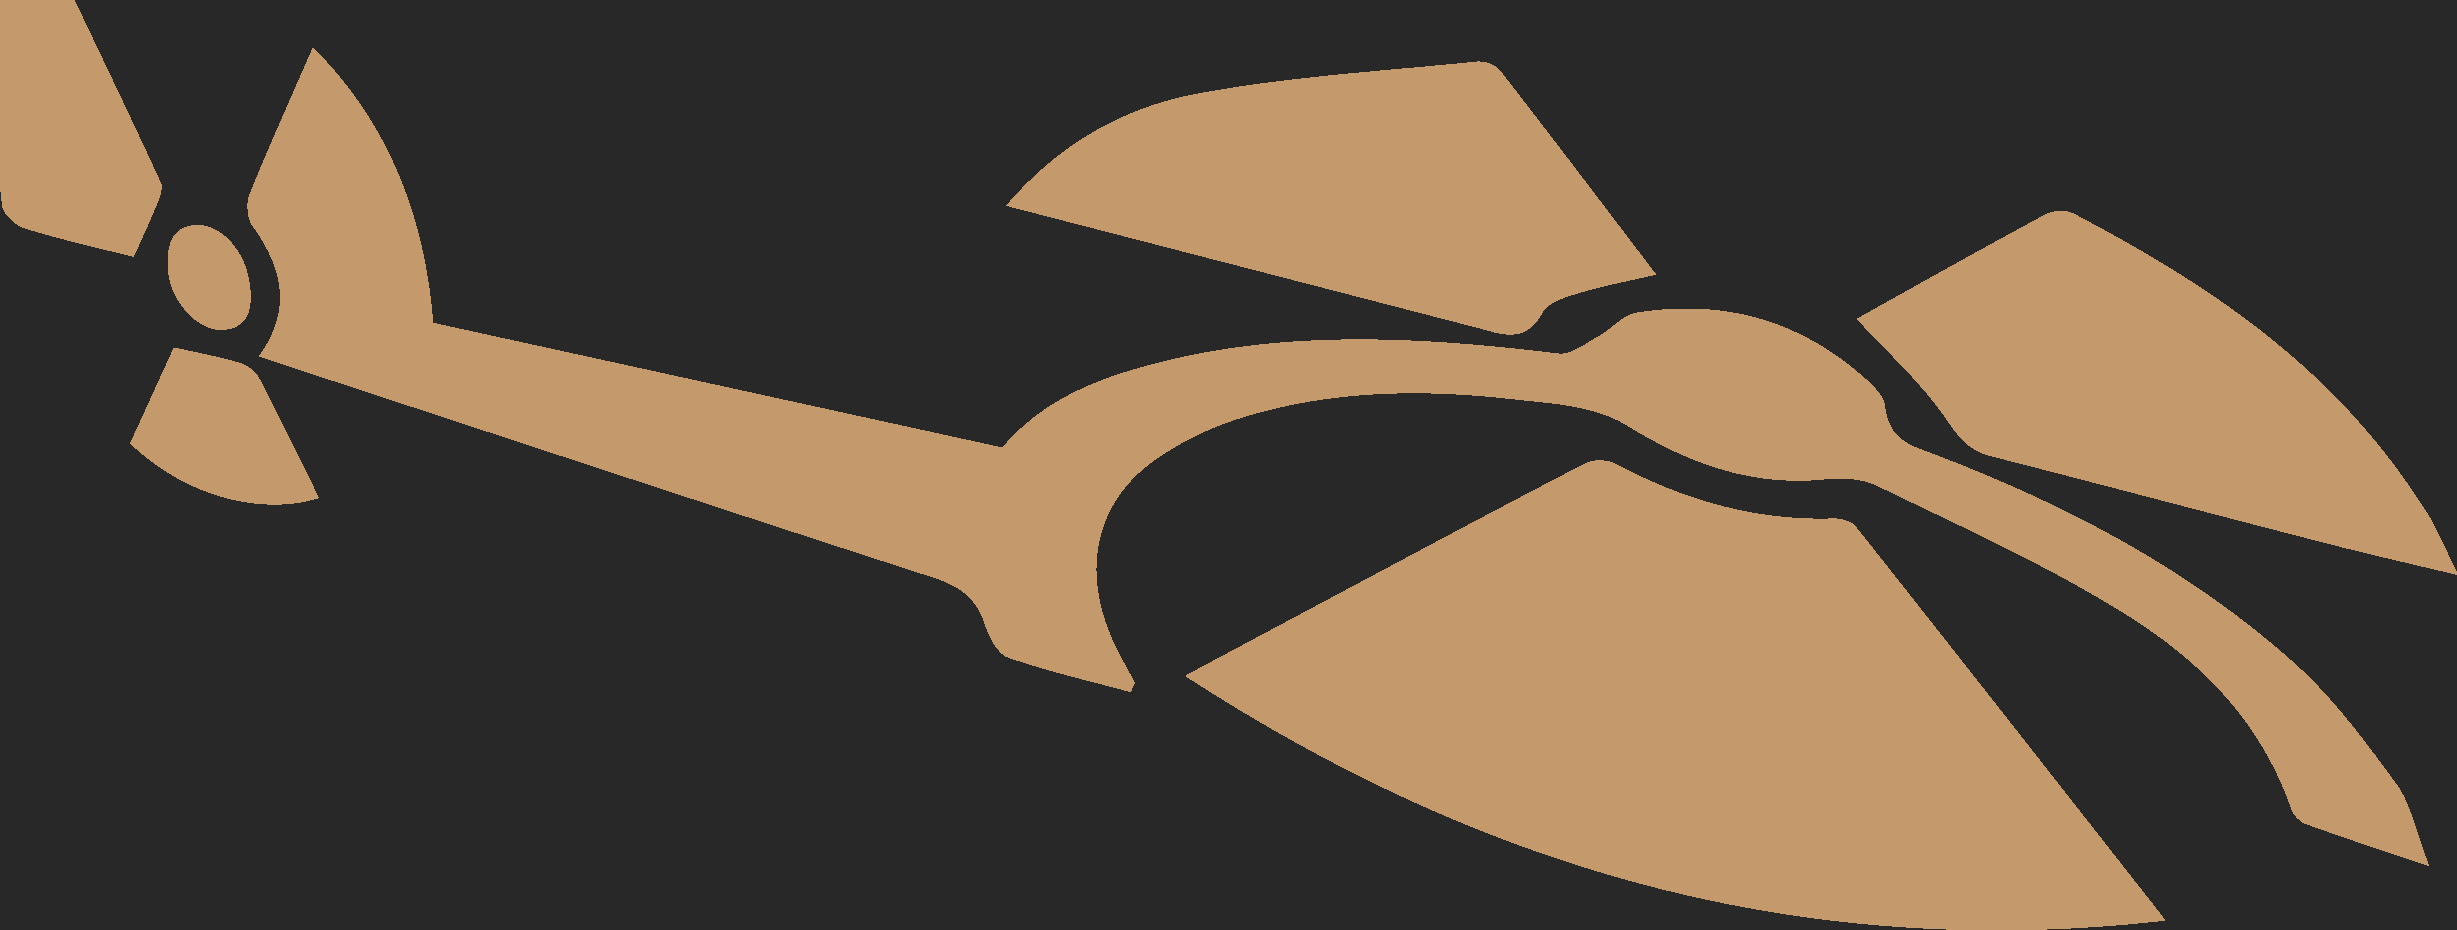
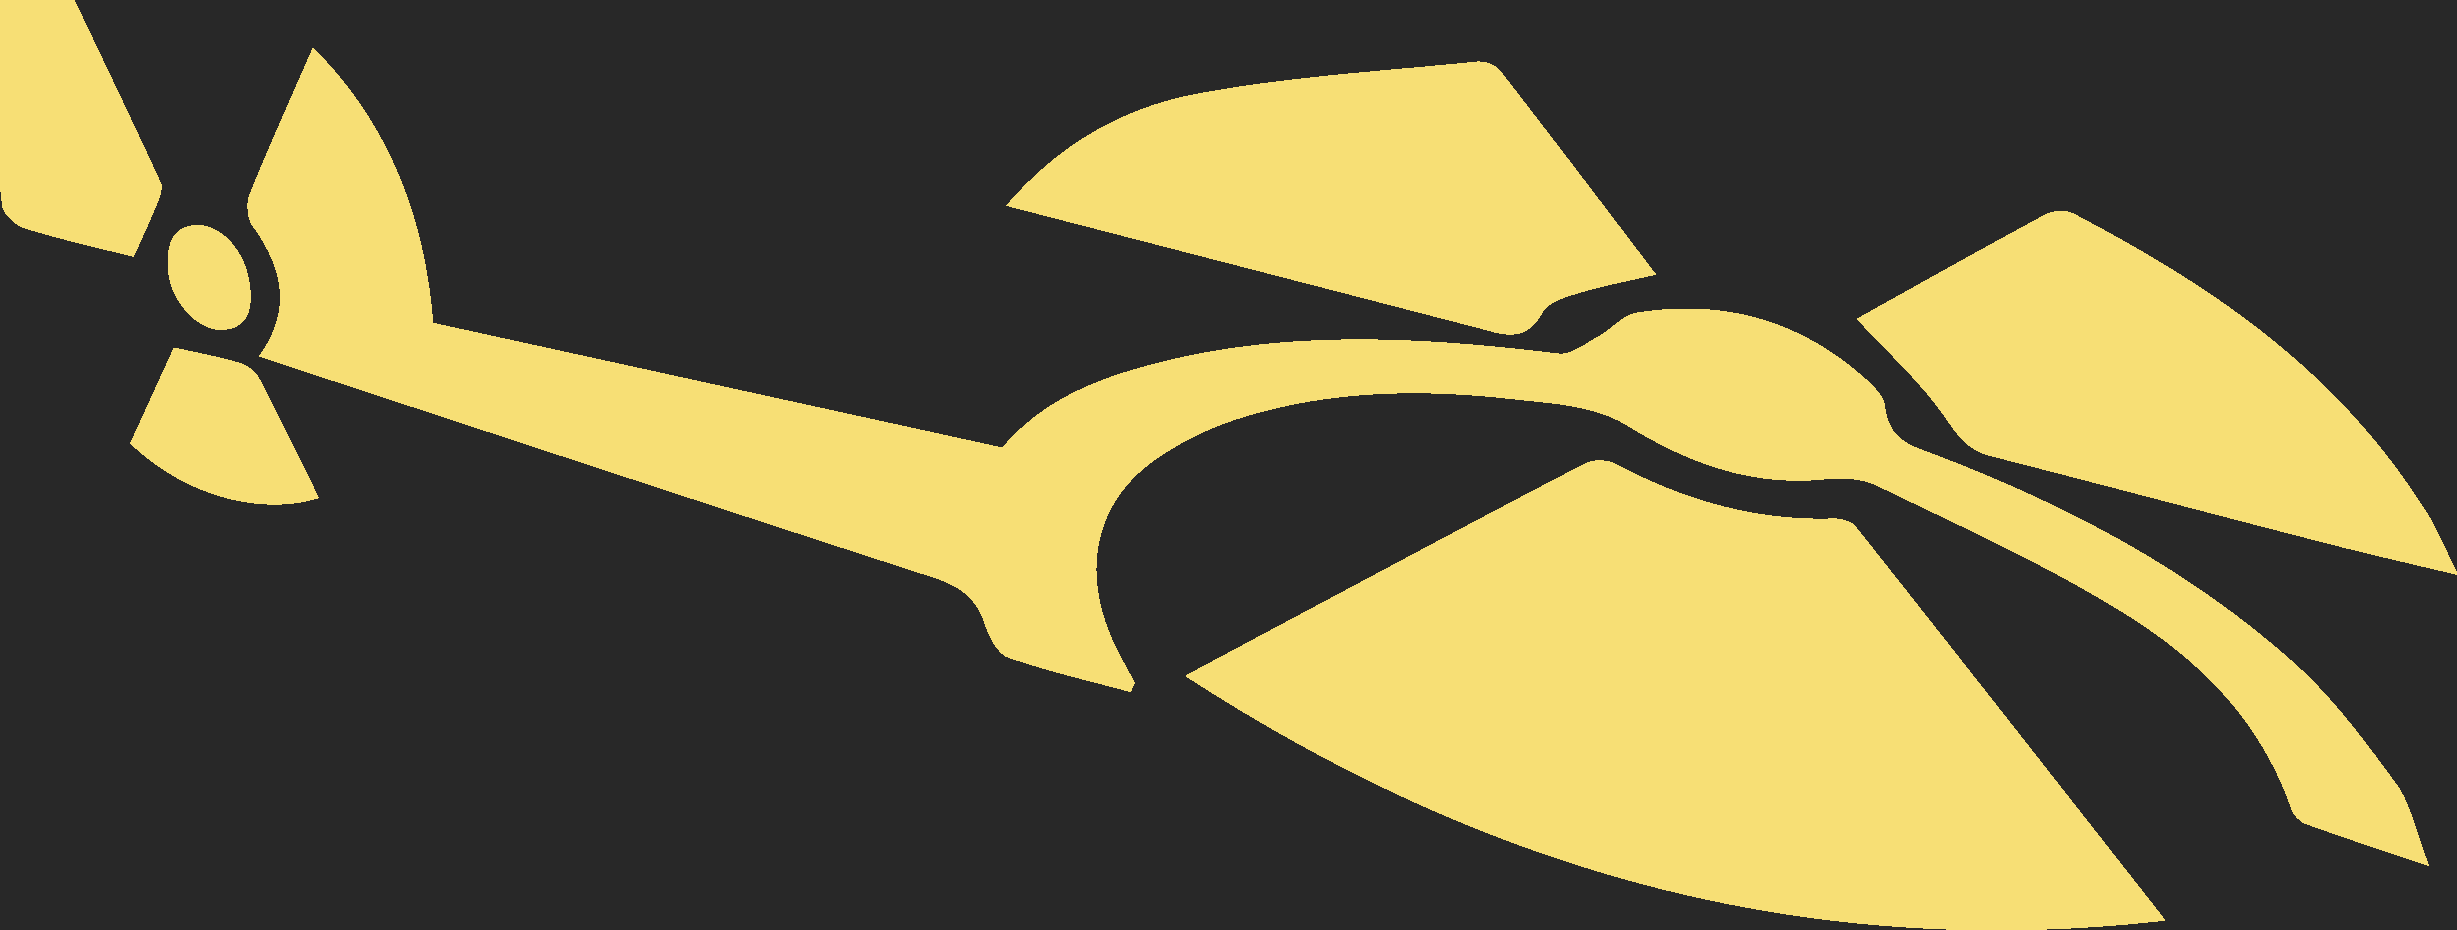
changes
changed font colors and icon size in footer.

diff --git a/assets/css/style.css b/assets/css/style.css
@@ -4,7 +4,7 @@ body,html{
 			font-size: 20px;
 			font-family: 'Open Sans', serif;
 			line-height: 1.8em;
-			color: #FFF;
+			color: #6cacf7;
 		}
 		.img{
 			background-image: url('../images/Drones.gif');
@@ -34,7 +34,7 @@ body,html{
 		}
 
 		.text1 .border{
-		  	color:#c1986a;
+		  	color:#f7df75;
 		  	padding:20px;
 		  	font-weight: bold;
 		  	background-color: black;
@@ -43,7 +43,7 @@ body,html{
 		}
 
 		h2{
-			color: #c1986a;
+			color: #f7df75;
 			font-family: 'Titillium Web';	
 		}
 
@@ -73,14 +73,14 @@ body,html{
 		.sl{
 			text-decoration: none;
 			display: block;
-			color: white;
+			color: #6cacf7;
 		}
 
-		.fa {
-		  	padding: 20px;
+		/*.fa {
+		  	padding: 10px;
 		  	font-size: 30px;
-		  	width: 200px;
-		  	height: 60px;
+		  	width: 100px;
+		  	height: 50px;
 		  	margin: 5px 20px;
 		  	border-radius: 50%;
 		  	display: block;
@@ -111,17 +111,20 @@ body,html{
 		.fa-linkedin {
 		  	background: #007bb5;
 		  	color: white;
-		}
+		}*/
 
 		.a:hover{
-			color: white ;
+			color: #6cacf7 ;
 			font-size: 25px;
 		}
 		/*style="color: #c1986a;"*/
 		.a{
-			color: #c1986a;
+			color: #f7df75;
 		}
 
+		.fa{
+			padding: 25px;
+		}
 		@media(max-width: 568px){
 			.hc{
 				width: 150px;
@@ -136,7 +139,7 @@ body,html{
 			.fa {
 			  	padding: 10px;
 			  	font-size: 20px;
-			  	width: 140px;
+			  	width: 70px;
 			  	height: 40px;
 			  	margin: 5px 20px;
 			  	border-radius: 50%;
@@ -155,9 +158,17 @@ body,html{
 			top: 10%;
 			transform: rotateX(360deg);
 			transition: 0.5s;
-			color: white !important;
+			color: #6cacf7 !important;
 		}
 
 		.col-lg-3 img{
 			height: 400px;
 		}
+
+		.navbar-inverse .navbar-toggle .icon-bar {
+		    background-color: #f7df75;
+		}
+
+		.navbar-toggle {
+   			margin-top: 15px;
+   		}	

diff --git a/index.html b/index.html
@@ -26,12 +26,12 @@
 	<nav class="navbar navbar-inverse">
 	    <div class="container-fluid">
 		    <div class="navbar-header">
-		        <button type="button" class="navbar-toggle" data-toggle="collapse" data-target="#myNavbar" style="color: #c1986a; ">
+		        <button type="button" class="navbar-toggle" data-toggle="collapse" data-target="#myNavbar" >
 			        <span class="icon-bar"></span>
 			        <span class="icon-bar"></span>
 			        <span class="icon-bar"></span>                        
 		      	</button>
-		      	<a class="navbar-brand" href="#" style="color: #c1986a; margin-bottom: 10px; "><img src="assets/images/copter_grey.png" style="height: 30px; width: 50px; display: inline; margin-right: 10px; margin-bottom: 20px;" ></img><h2 style="display: inline;">IARC</h2></a>
+		      	<a class="navbar-brand" href="#" style="color: #f7df75; margin-bottom: 10px; "><img src="assets/images/copter_grey.png" style="height: 30px; width: 50px; display: inline; margin-right: 10px; margin-bottom: 20px;" ></img><h2 style="display: inline;">IARC</h2></a>
 		    </div>
 		    <div class="collapse navbar-collapse" id="myNavbar">
 		     	<ul class="nav navbar-nav navbar-right">
@@ -56,7 +56,7 @@
 			<div class="col-lg-6" style="margin-bottom: 200px;">
 				<img class="hc" src="assets/images/copter_grey - Copy.png"></img>
 				<br>
-				<span style="font-size:50px; color:#c1986a; ">IARC</span>
+				<span style="font-size:50px; color:#f7df75; ">IARC</span>
 			</div>
 			<div class="col-lg-6">
 				<h2>Part 1</h2>
